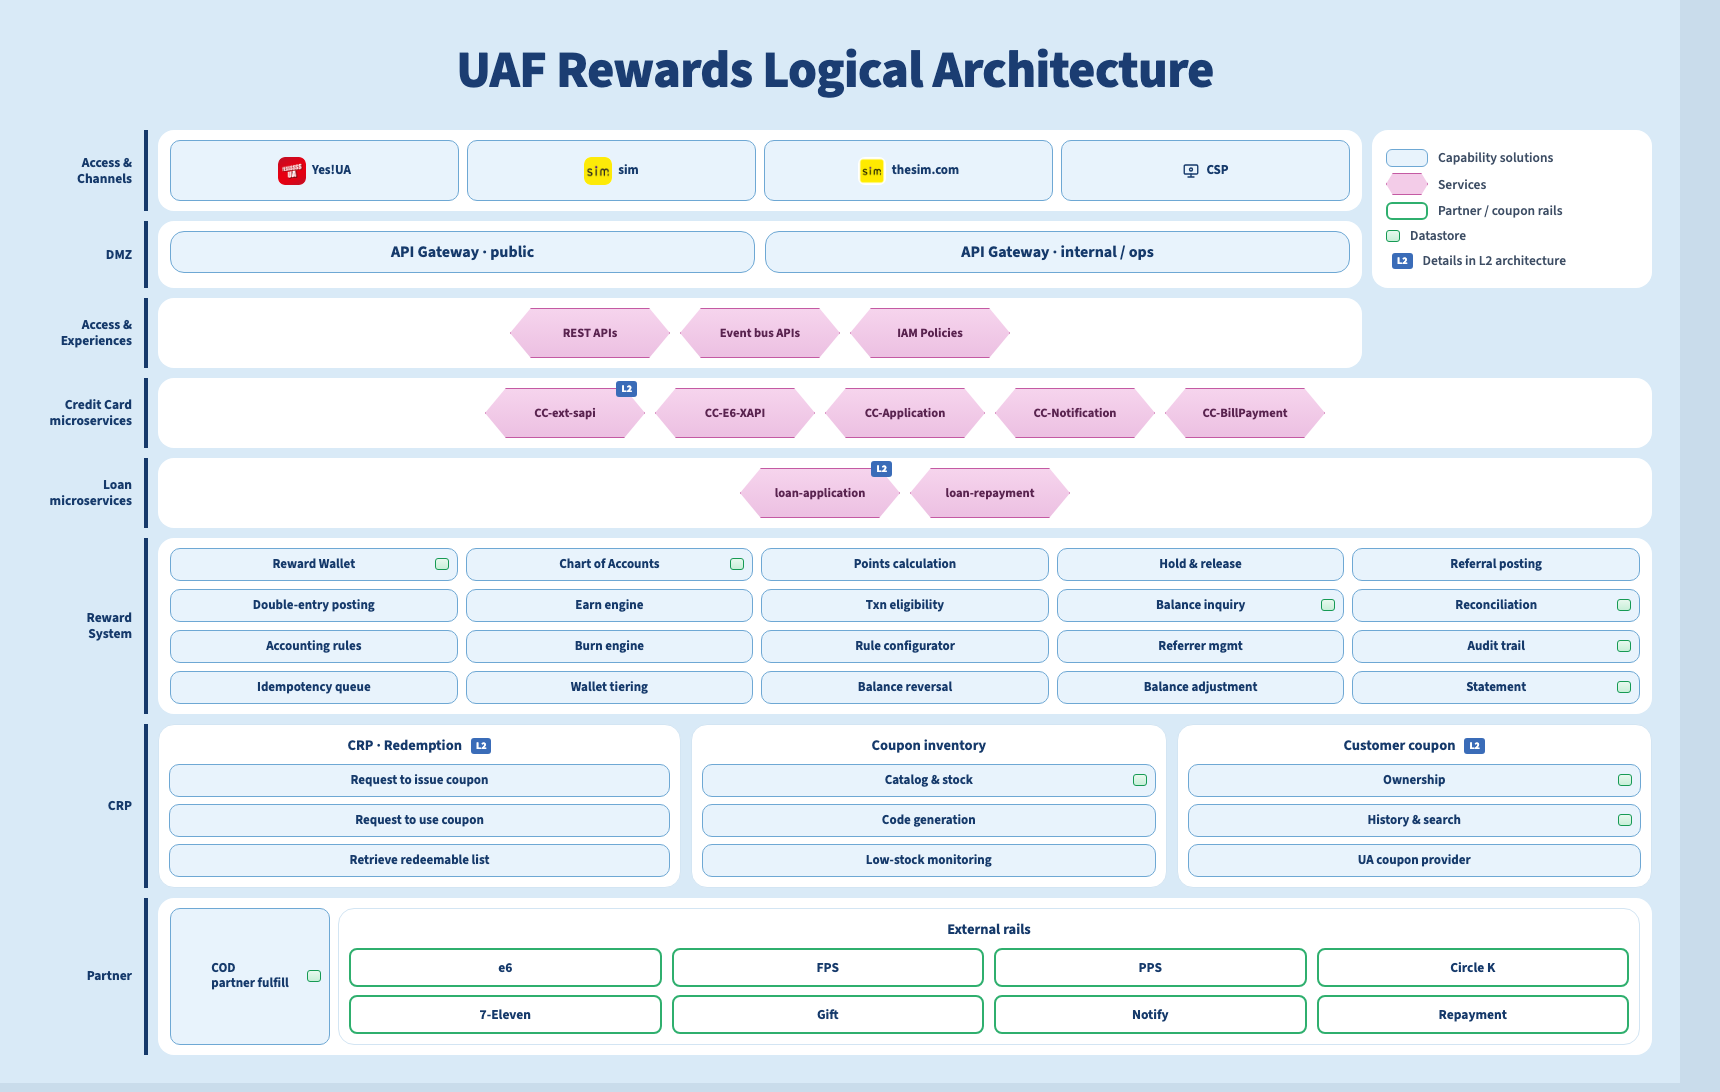
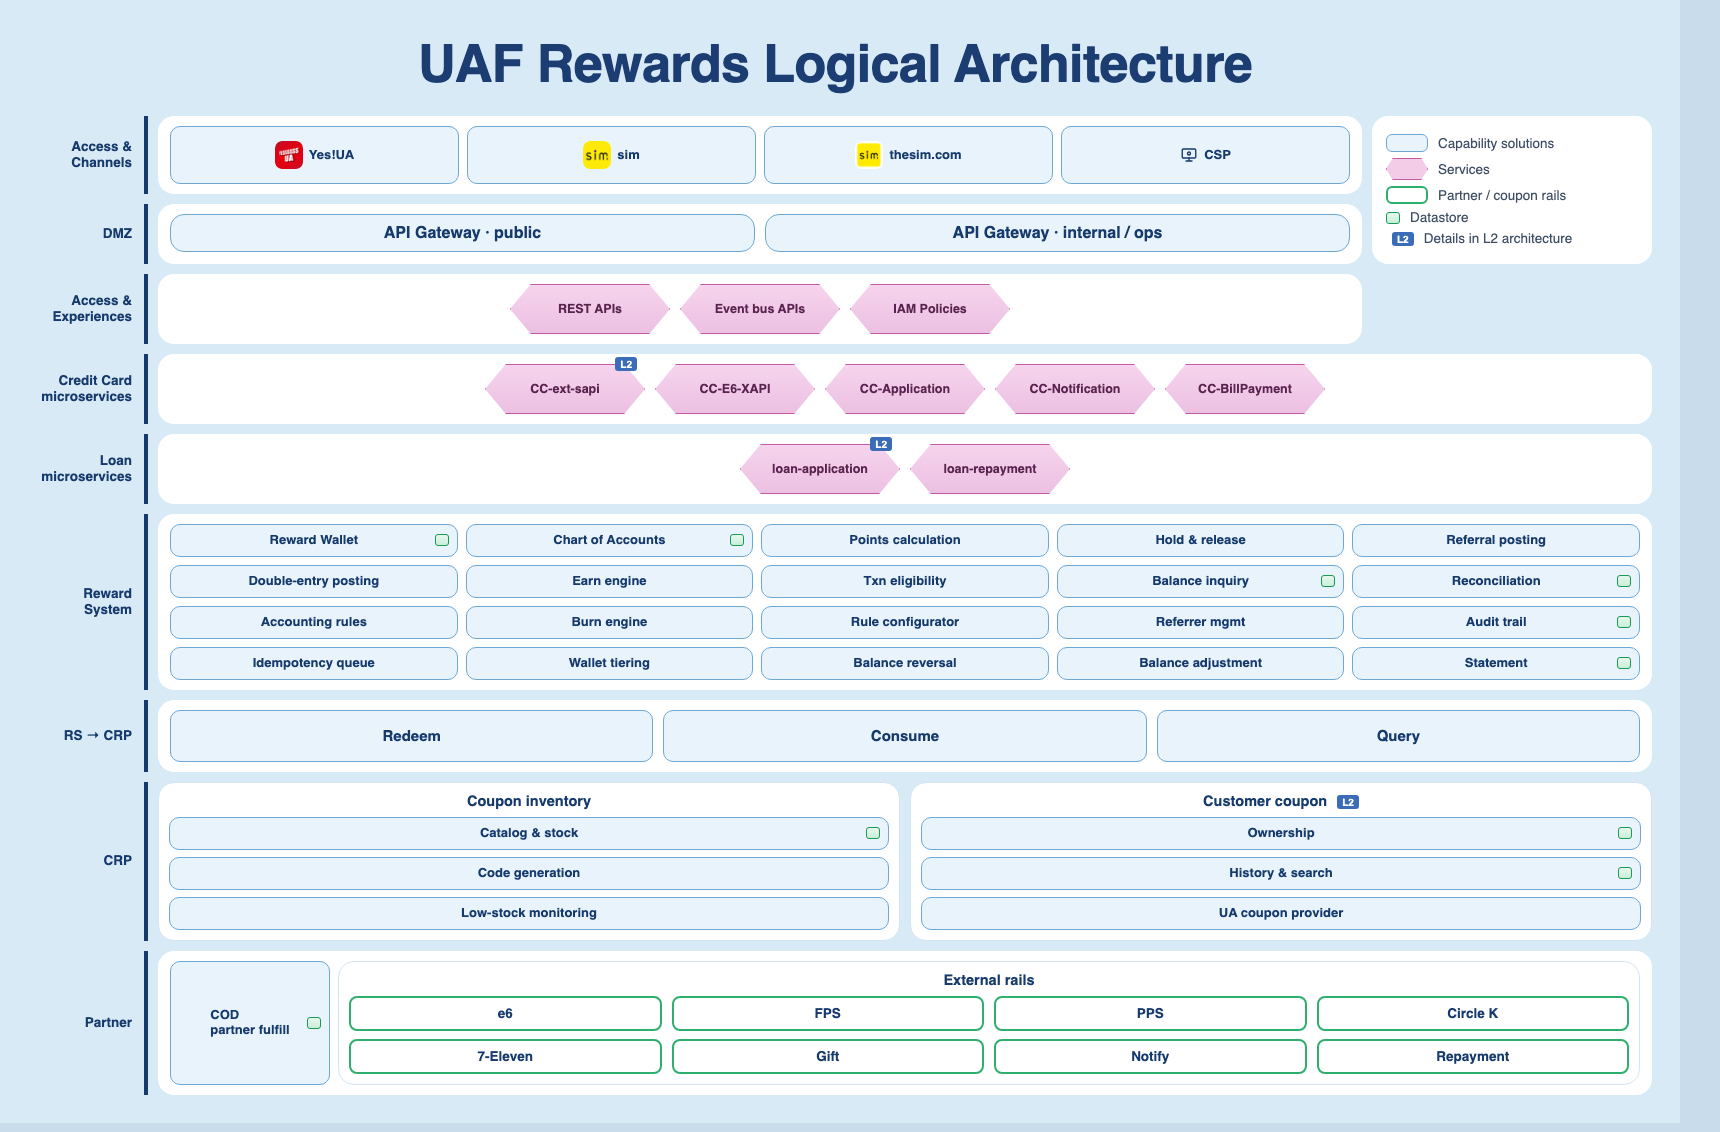
docs(decks): RS→CRP interface layer — Redeem / Consume / Query

Changed region(s): [[0.0308, 0.0311, 0.986, 0.9652], [0.0308, 0.6227, 0.0924, 0.6538], [0.0616, 0.8718, 0.0924, 0.9029]]

diff --git a/docs/decks/uaf-rewards-logical-architecture.html b/docs/decks/uaf-rewards-logical-architecture.html
@@ -12,7 +12,7 @@
   .g{
     display:grid;
     grid-template-columns: 130px 1fr 280px;
-    grid-template-rows: auto auto auto auto auto auto auto auto;
+    grid-template-rows: auto auto auto auto auto auto auto auto auto;
     gap: 10px 10px;
     align-items: stretch;
   }
@@ -42,7 +42,7 @@
   .hexrow .svc{width:160px}
   .rails{display:grid;grid-template-columns:repeat(4,1fr);gap:8px 10px}
   .gwrow{display:grid;grid-template-columns:1fr 1fr;gap:10px}
-  .crp{display:grid;grid-template-columns:1.1fr 1fr 1fr;gap:10px}
+  .crp{display:grid;grid-template-columns:1fr 1fr;gap:10px}
   .ch .cap{flex:1;min-height:56px}
   .ch .cap img.logo{width:28px;height:28px;border-radius:7px;object-fit:cover;flex-shrink:0;background:#fff}
 
@@ -63,7 +63,11 @@
   .c7{grid-column:2 / span 2;grid-row:7}
   .l8{grid-column:1;grid-row:8}
   .c8{grid-column:2 / span 2;grid-row:8}
+  .l9{grid-column:1;grid-row:9}
+  .c9{grid-column:2 / span 2;grid-row:9}
   .caps{display:grid;grid-template-columns:repeat(5,1fr);gap:8px}
+  .verbs{display:grid;grid-template-columns:1fr 1fr 1fr;gap:10px}
+  .verbs .cap{min-height:52px;font-size:15px}
 </style>
 </head>
 <body>
@@ -148,16 +152,15 @@
       </div>
     </div>
 
-    <div class="lab l7">CRP</div>
-    <div class="c7 crp">
-      <div class="panel">
-        <h3>CRP · Redemption <span class="l2i">L2</span></h3>
-        <div class="stack">
-          <div class="cap">Request to issue coupon</div>
-          <div class="cap">Request to use coupon</div>
-          <div class="cap">Retrieve redeemable list</div>
-        </div>
-      </div>
+    <div class="lab l7">RS → CRP</div>
+    <div class="card c7 verbs">
+      <div class="cap">Redeem</div>
+      <div class="cap">Consume</div>
+      <div class="cap">Query</div>
+    </div>
+
+    <div class="lab l8">CRP</div>
+    <div class="c8 crp">
       <div class="panel">
         <h3>Coupon inventory</h3>
         <div class="stack">
@@ -176,8 +179,8 @@
       </div>
     </div>
 
-    <div class="lab l8">Partner</div>
-    <div class="card c8 row">
+    <div class="lab l9">Partner</div>
+    <div class="card c9 row">
       <div class="cap" style="min-width:160px">COD<br>partner fulfill<span class="db dbr"></span></div>
       <div class="panel grow">
         <h3>External rails</h3>
